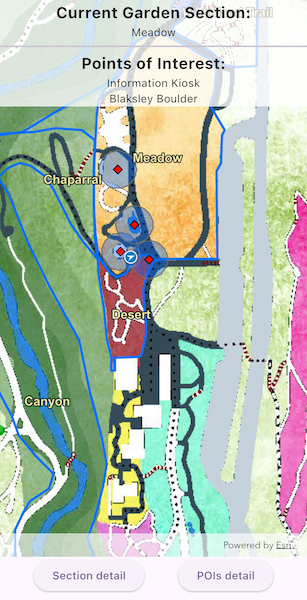
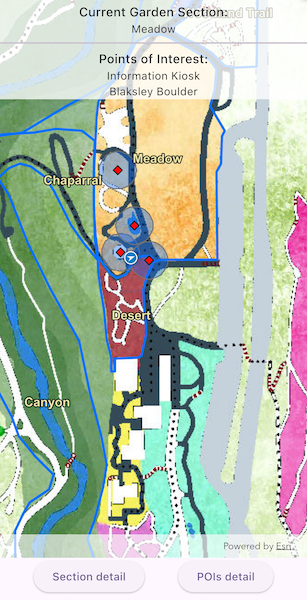
PR updates
- style change for header text
- new screenshot with new style
- fixed comment punctuation and spelling issues
- Removed extraneous type definition

diff --git a/lib/samples/set_up_location_driven_geotriggers/set_up_location_driven_geotriggers.dart b/lib/samples/set_up_location_driven_geotriggers/set_up_location_driven_geotriggers.dart
@@ -37,8 +37,7 @@ class _SetUpLocationDrivenGeotriggersState
   // A flag for when the map view is ready and controls can be used.
   var _ready = false;
   // The simulated location data source this sample will use.
-  final SimulatedLocationDataSource _locationDataSource =
-      SimulatedLocationDataSource();
+  final _locationDataSource = SimulatedLocationDataSource();
 
   // Geotrigger names
   final _poiGeotriggerName = 'POI Geotrigger';
@@ -104,6 +103,7 @@ class _SetUpLocationDrivenGeotriggersState
                 Row(
                   mainAxisAlignment: MainAxisAlignment.spaceEvenly,
                   children: [
+                    // Button to show the details of the current Section
                     ElevatedButton(
                       onPressed: _currentSections.isEmpty
                           ? null
@@ -117,6 +117,7 @@ class _SetUpLocationDrivenGeotriggersState
                               ),
                       child: const Text('Section detail'),
                     ),
+                    // Button to show the details of the nearby POIs
                     ElevatedButton(
                       onPressed: _currentPois.isEmpty
                           ? null
@@ -214,7 +215,7 @@ class _SetUpLocationDrivenGeotriggersState
       bufferDistance: bufferSize,
     );
 
-    // Create the geotrigger. The Arcade expression provides a convinient way to
+    // Create the geotrigger. The Arcade expression provides a convenient way to
     // get the name of the triggering feature.
     final geotrigger = FenceGeotrigger(
       feed: LocationGeotriggerFeed(locationDataSource: _locationDataSource),
@@ -234,7 +235,7 @@ class _SetUpLocationDrivenGeotriggersState
     await monitor.start();
   }
 
-  // Handles geotrigger event changes sent from the monitors
+  // Handle geotrigger event changes sent from the monitors.
   void handleGeotriggerEvent(GeotriggerNotificationInfo info) {
     final fenceInfo = info as FenceGeotriggerNotificationInfo;
 
@@ -259,9 +260,9 @@ class _SetUpLocationDrivenGeotriggersState
   Widget buildCurrentGardenSection(BuildContext context) {
     return Column(
       children: [
-        const Text(
-          style: TextStyle(fontWeight: FontWeight.bold, fontSize: 20),
+        Text(
           'Current Garden Section:',
+          style: Theme.of(context).textTheme.titleMedium,
         ),
         Row(
           mainAxisAlignment: MainAxisAlignment.center,
@@ -281,9 +282,9 @@ class _SetUpLocationDrivenGeotriggersState
   Widget buildCurrentPois(BuildContext context) {
     return Column(
       children: [
-        const Text(
-          style: TextStyle(fontWeight: FontWeight.bold, fontSize: 20),
+        Text(
           'Points of Interest:',
+          style: Theme.of(context).textTheme.titleMedium,
         ),
         Column(
           mainAxisAlignment: MainAxisAlignment.center,
@@ -383,7 +384,7 @@ class _SetUpLocationDrivenGeotriggersState
     return map;
   }
 
-  // Wraps the feature description HTML in complete HMTL tags and scales the font
+  // Wraps the feature description HTML in complete HTML tags and scales the font
   // size to make the text easier to read.
   String wrapDescriptionInHtml(String description) {
     var htmlDescription =
